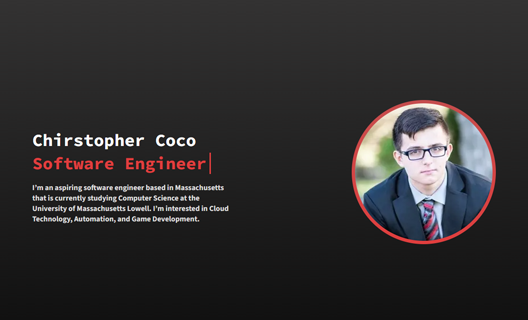
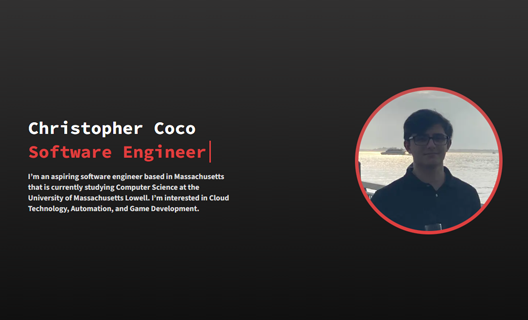
Add version to footer and fix typo

Changed region(s): [[0.6667, 0.25, 0.9697, 0.7812], [0.0303, 0.375, 0.4545, 0.7188]]

diff --git a/src/app/page.tsx b/src/app/page.tsx
@@ -51,7 +51,7 @@ export default function Home() {
                     <div className="hero-line"></div>
                 </div>
                 <div className="hero-text" style={{alignSelf: "center"}}>
-                    <p className={`${sourceCodePro.className} hero-text-name`}>Chirstopher Coco</p>
+                    <p className={`${sourceCodePro.className} hero-text-name`}>Christopher Coco</p>
                     <p className={`${sourceCodePro.className} hero-text-title`}>Software Engineer</p>
                     <p className={`${sourceSans.className} hero-text-info`}>I’m an aspiring software engineer based in Massachusetts that is currently studying Computer Science at the University of Massachusetts Lowell. I’m interested in Cloud Technology, Automation, and Game Development.</p>
                 </div>

diff --git a/src/components/Footer/index.tsx b/src/components/Footer/index.tsx
@@ -28,7 +28,7 @@ export default function Footer(props: any) {
                     <FontAwesomeIcon icon={faInstagram} className="footer-icon"/>
                 </a>
             </div>
-            <div className="footer-text">Christopher Coco Jr. | Copyright All Rights Reserved</div>
+            <div className="footer-text">Christopher Coco Jr. | Copyright All Rights Reserved | v1.0.4</div>
 
         </div>
       );
